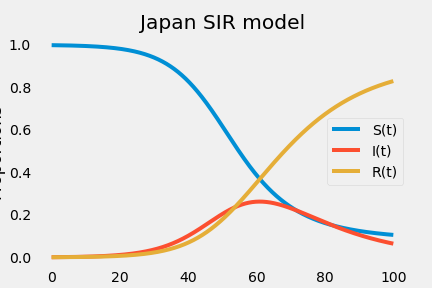
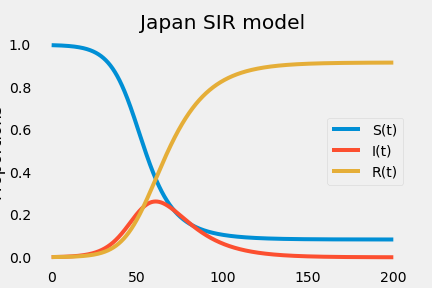
make it better

diff --git a/src/main/webapp/resources/js/demo/chart-pie-demo.js b/src/main/webapp/resources/js/demo/chart-pie-demo.js
@@ -124,8 +124,8 @@ selectCountry.addEventListener("click", (evt) => {
 	if(evt.target.id === "selectKorea"){
 		console.log("selectKorea");
 		myPieChart.destroy();
-		sendAjax("http://localhost:8080/connect/api/covid_update_Info", 1);
-		sendAjax("http://localhost:8080/connect/api/covid_update_Info/city_rank", 2, "korea");
+		sendAjax("http://localhost:8080/connect/api/covid_update_Info", 1, "korea");
+		sendAjax("http://localhost:8080/connect/api/covid_update_Info/city_rank", 2);
 		document.querySelector("#update_form").action = "covid_update_korea";
 		document.querySelector("#covid_update").innerText = "최신정보로 업데이트(한국)";
 		document.querySelector("#predictGraph").innerText = "한국 코로나 SEIR그래프";

diff --git a/src/main/webapp/WEB-INF/views/covid19.html b/src/main/webapp/WEB-INF/views/covid19.html
@@ -452,6 +452,6 @@
     <script src="http://localhost:8080/connect/resources/vendor/chart.js/Chart.min.js"></script>
 
     <!-- Page level custom scripts -->   
-    <script src="http://localhost:8080/connect/resources/js/demo/chart-pie-demo.js?ver=2"></script>
+    <script src="http://localhost:8080/connect/resources/js/demo/chart-pie-demo.js?ver=1"></script>
     </body>
 </html>

diff --git a/src/main/webapp/resources/seir_model/seirModel.py b/src/main/webapp/resources/seir_model/seirModel.py
@@ -133,7 +133,7 @@ def SIR_diagram():
     gamma = 1/14
     
     #Time vector
-    t = numpy.linspace(0, 100, 10000)
+    t = numpy.linspace(0, 200, 10000)
     
     #Result
     solution = scipy.integrate.odeint(SIR_model, [S0, I0, R0], t, args=(beta, gamma))
